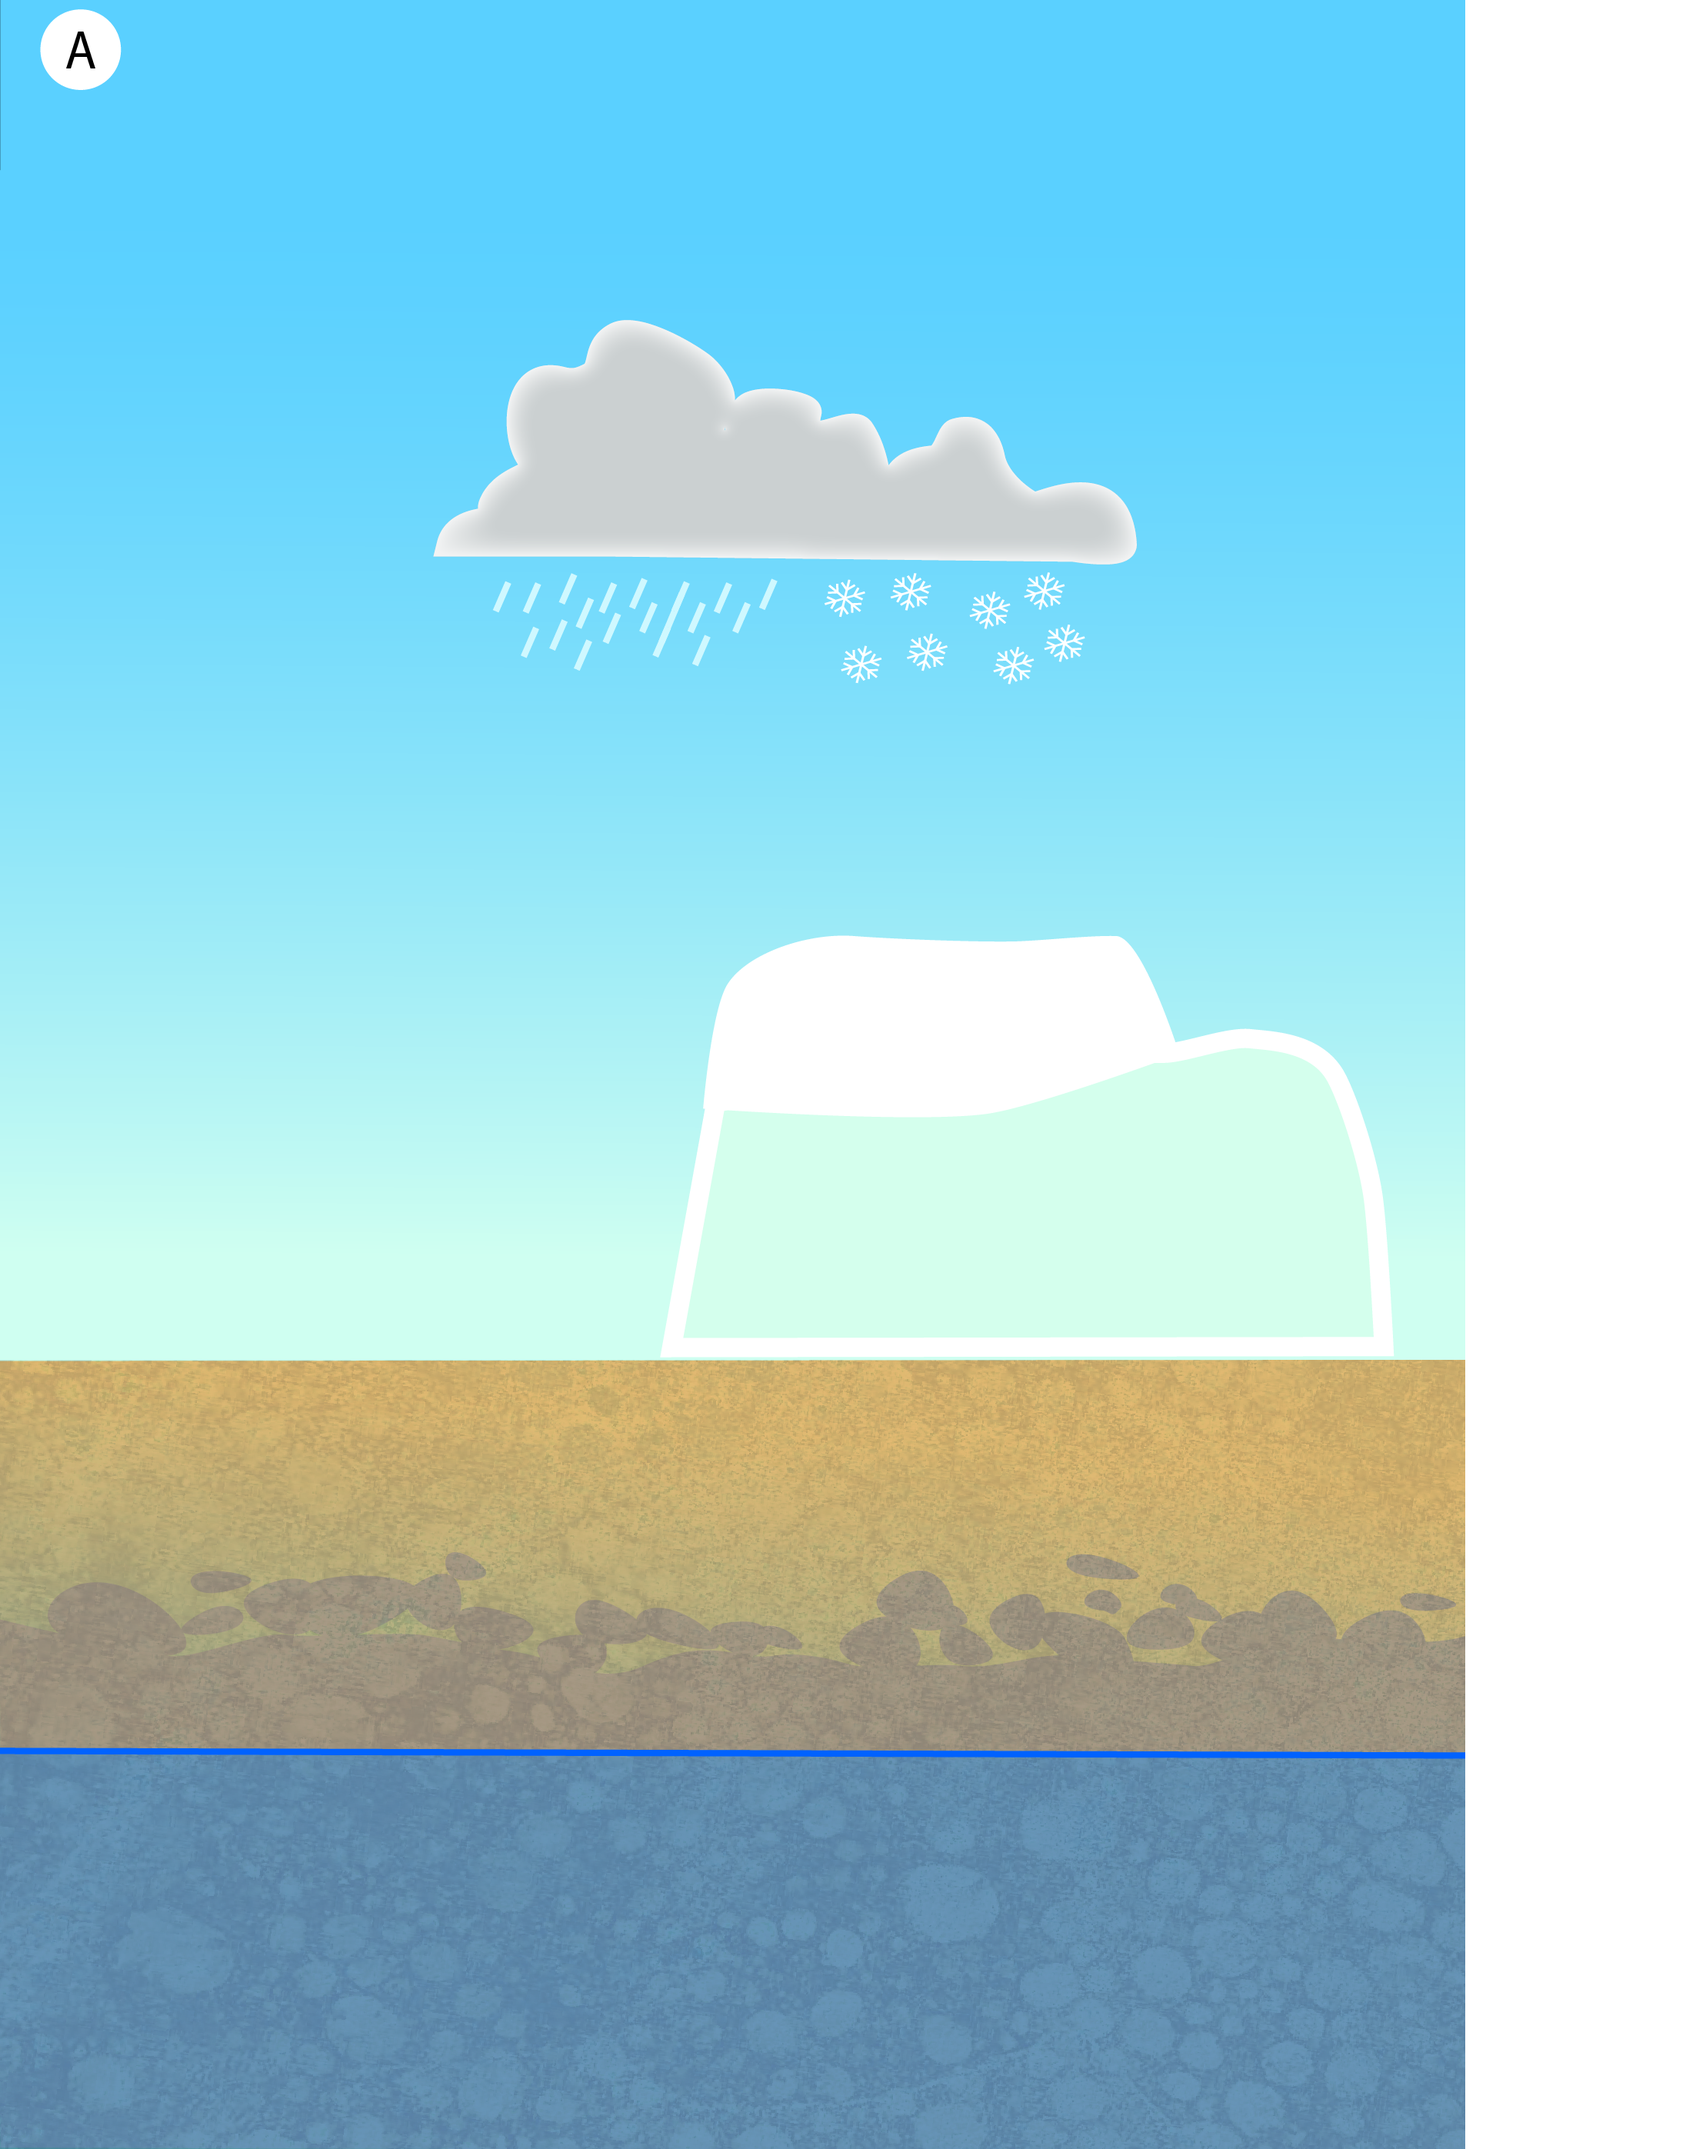
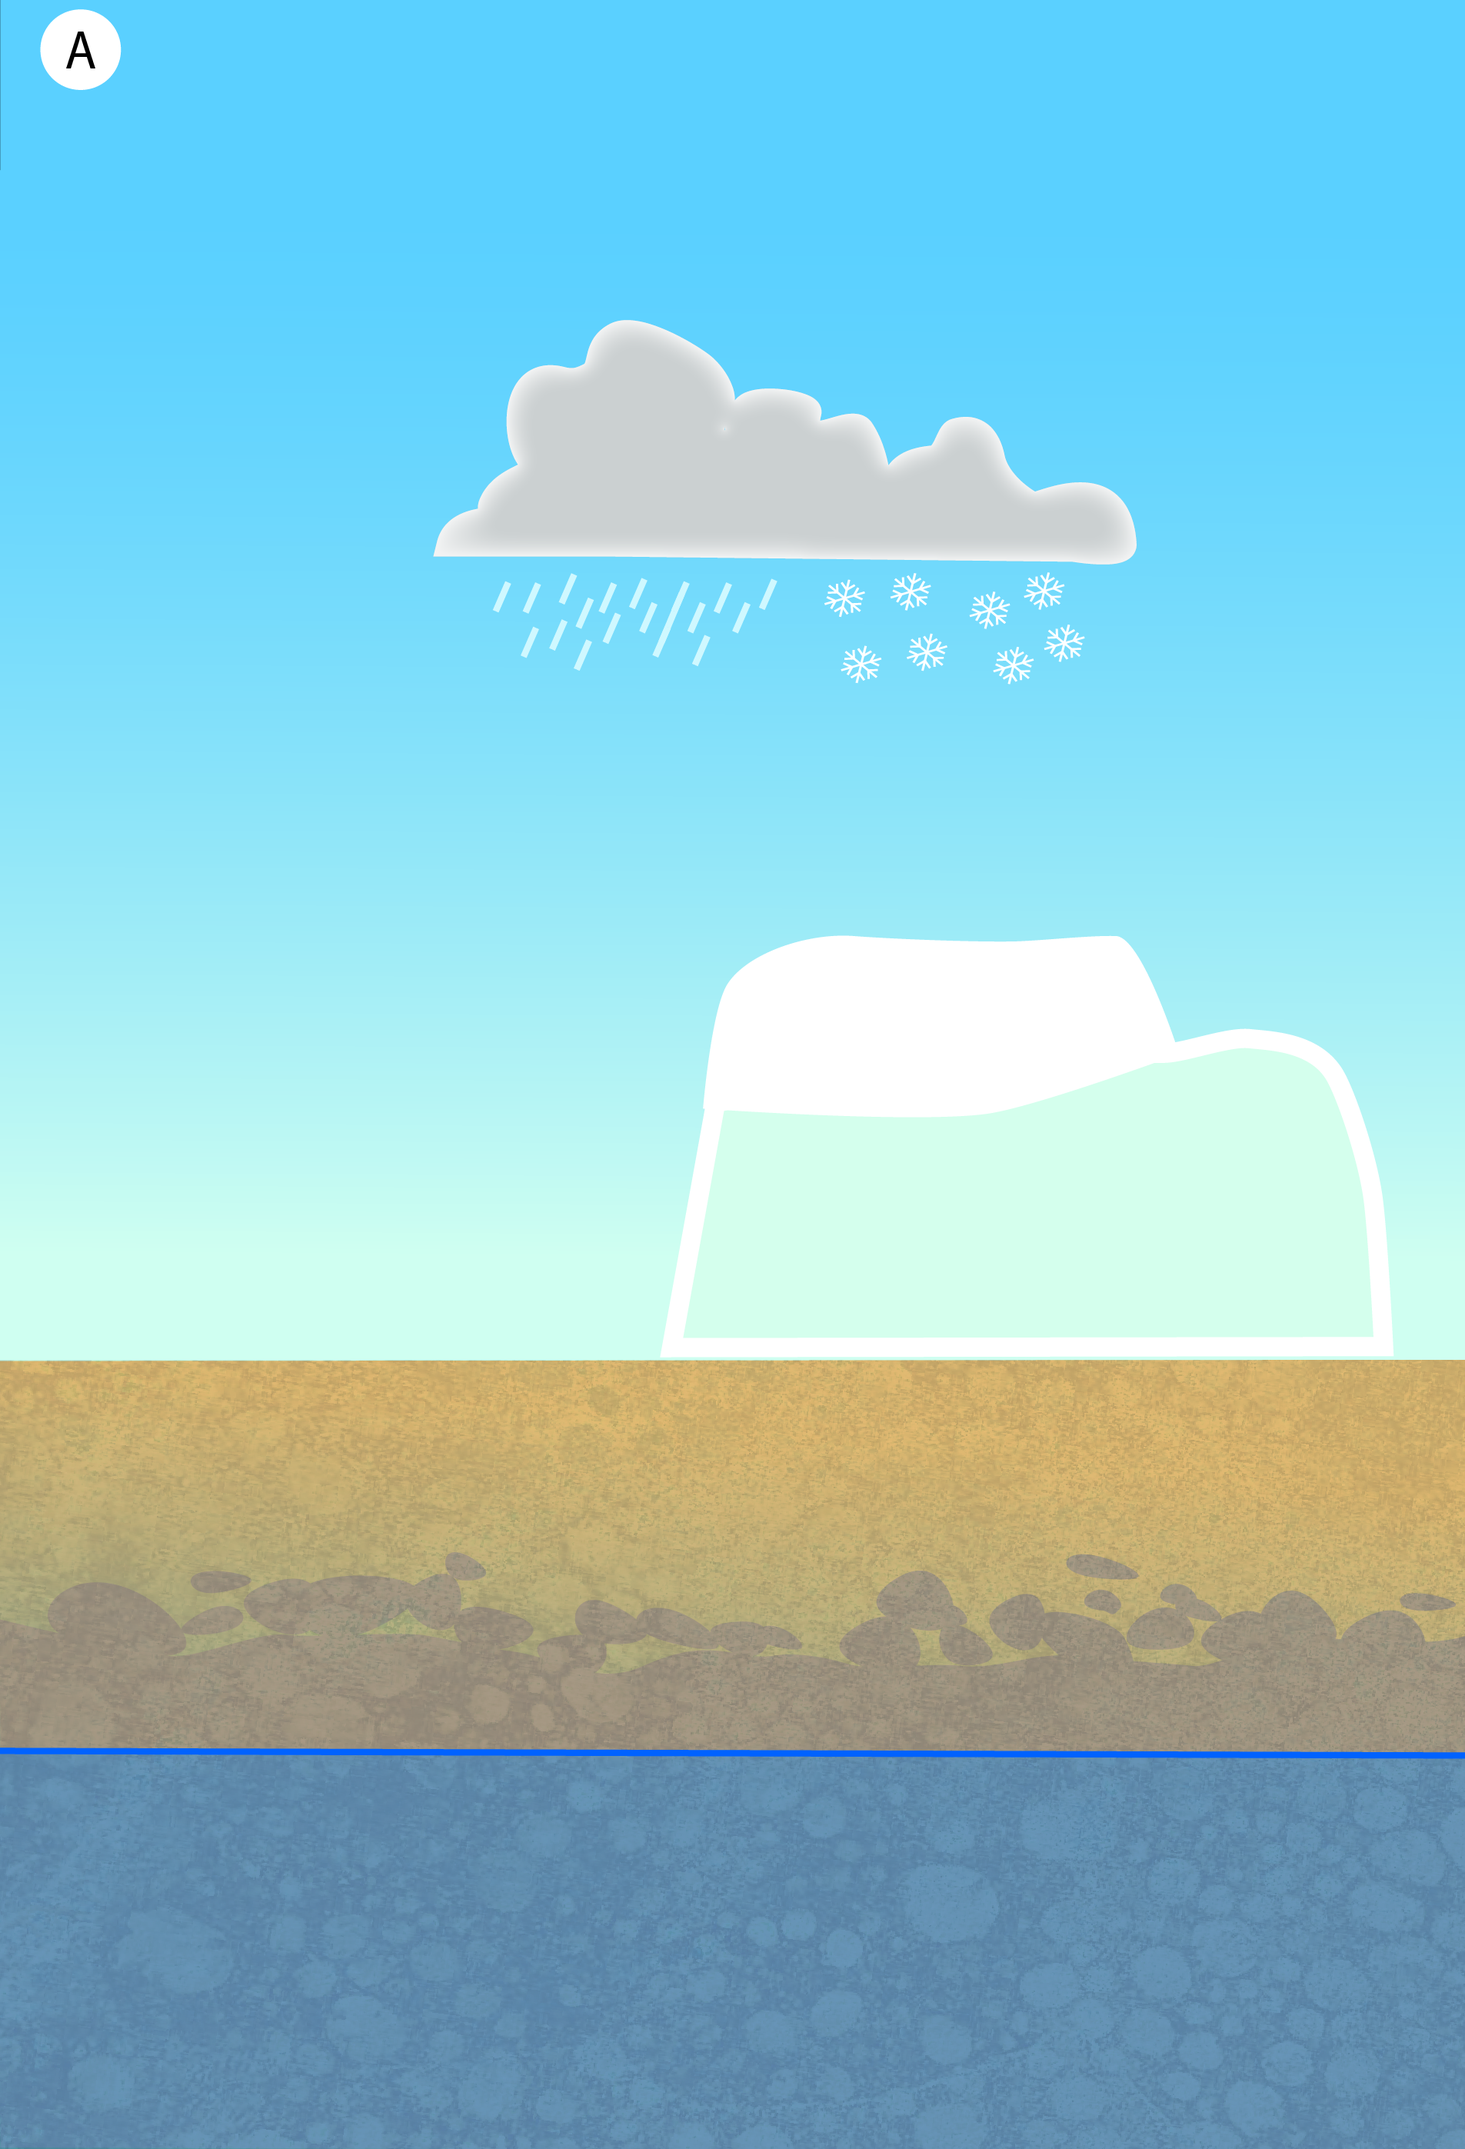
MOD: updated drawings (remove total runoff) and add more documentation

diff --git a/creatediagram.py b/creatediagram.py
@@ -1,7 +1,15 @@
+# tool to create diagrams for global water cycle based on information of the file modelsetup.json
+# on top of a background image, specific content is displayed
+# first, the positions of the items is defined. Then, and based on the information of the json file for the
+# particular model (true or false), the item from the item folder is drawn. Then, the text is displayed
+# in the corresponding font. In case a component is not represented in the model, this component is displayed
+# in grey and highlighted with an "x".
+# Author: Hannes Müller Schmied, 2024; last updated 2025-01-12
+
 import json
 from PIL import Image, ImageDraw, ImageFont
 
-# positions of the items (the drawings of the water use sectors) as pixel value in reference to the background diagram
+# positions of the items for the Main diagram as pixel value in reference to the background image
 posit = {
     "electricity": (1410, 1390),
     "manufacturing": (1730, 1350),
@@ -52,7 +60,7 @@ posit = {
     "ar_snowmelt": (600, 750)
 }
 
-# positions of the "x" (grey out for colourdisabled people) for the items as pixel value in reference to the background diagram
+# positions of the "x" (grey out for colourdisabled people) for the items of the Main diagram as pixel value in reference to the background diagram
 positx = {
     "electricity": (1490, 1480),
     "manufacturing": (1850, 1490),
@@ -99,11 +107,10 @@ positx = {
     "ar_throughfall": (330, 1280),
     "ar_infiltration": (330, 1560),
     "ar_glacierrunoff": (1190, 530),
-    "ar_runoff": (1350, 410),
     "ar_snowmelt": (700, 730)
 }
 
-# positions of the textual items for the water use sectors
+# positions of the textual items for the Main diagrams
 postxt = {
     "Electricity sector": (3150, 1290),
     "Manufacturing sector": (4000, 1330),
@@ -139,13 +146,12 @@ postxt = {
     "Throughfall": (80, 1330),
     "Infiltration": (105, 1580),
     "Glacier runoff": (1350, 600),
-    "Total runoff": (1350, 400),
     "Snow melt": (670, 690),
     "Snow storage": (1700, 560),
     "CO2 effect": (25, 1000)
 }
 
-# define if text should be wrapped or not
+# define if text display should be wrapped or not, for the Main diagram
 textwrp = {
     "Electricity sector": True,
     "Manufacturing sector": True,
@@ -180,13 +186,12 @@ textwrp = {
     "Infiltration": False,
     "Throughfall": False,
     "Glacier runoff": False,
-    "Total runoff": False,
     "Snow melt": False,
     "Snow storage": True,
     "CO2 effect": False
 }
 
-#for A diagram
+# similar information as for posit but for A diagram
 posita = {
     "shortwave": (75, 260),
     "longwave": (190, 260),
@@ -205,10 +210,9 @@ posita = {
     "A_ar_gwr": (300, 2170),
     "A_ar_caprise": (500, 2170),
     "A_ar_gw_runoff": (1500, 2450),
-    "A_ar_trunoff": (1900, 1720),
     "A_ar_surf_runoff": (1580, 1660),
-    "A_ar_glacierrunoff": (1240, 1660),
-    "A_ar_snowmelt": (900, 1660),
+    "A_ar_glacierrunoff": (1580, 1560),
+    "A_ar_snowmelt": (1580, 1460),
     "A_ar_snow_sublim": (1420, 1050),
     "A_ar_glacier_sublim": (1560, 1070),
     "A_glacier": (1020, 1475),
@@ -219,7 +223,7 @@ posita = {
     "A_soil": (700, 2090)
 }
 
-#for A diagram positions of the "x" (grey out for colourdisabled people)
+# similar information as for positx but for A diagram
 positax = {
     "shortwave": (75, 290),
     "longwave": (190, 290),
@@ -238,10 +242,9 @@ positax = {
     "A_ar_gwr": (300, 2170),
     "A_ar_caprise": (500, 2170),
     "A_ar_gw_runoff": (1500, 2380),
-    "A_ar_trunoff": (1950, 2200),
     "A_ar_surf_runoff": (1680, 1630),
-    "A_ar_glacierrunoff": (1300, 1630),
-    "A_ar_snowmelt": (1000, 1630),
+    "A_ar_glacierrunoff": (1680, 1530),
+    "A_ar_snowmelt": (1680, 1430),
     "A_ar_snow_sublim": (1420, 1050),
     "A_ar_glacier_sublim": (1560, 1070),
     "A_glacier": (1250, 1475),
@@ -251,7 +254,7 @@ positax = {
     "A_snow": (1170, 1290),
     "A_soil": (870, 2120)
 }
-# positions of the textual items for the water use sectors
+# similar information as for positxt but for A diagram
 postxta = {
     "Glacier storage": (1380, 1420),
     "Total precipitation": (770, 630),
@@ -268,11 +271,10 @@ postxta = {
     "Groundwater recharge": (320, 2160),
     "Infiltration": (70, 1900),
     "Throughfall": (200, 1410),
-    "Glacier runoff": (1230, 1710),
-    "Total runoff": (4200, 2220),
+    "Glacier runoff": (1560, 1610),
     "Groundwater runoff": (3300, 2360),
     "Interflow": (1600, 1970),
-    "Snow melt": (900, 1710),
+    "Snow melt": (1560, 1510),
     "Snow storage": (1060, 1220),
     "Surface runoff": (1560, 1710),
     "CO2 effect": (550, 880),
@@ -283,7 +285,7 @@ postxta = {
     "Snow layers:": (1060, 1320)
 }
 
-# define if text should be wrapped or not
+# similar information as for textwrp but for A diagram
 textwrpa = {
     "Glacier storage": False,
     "Total precipitation": False,
@@ -301,7 +303,6 @@ textwrpa = {
     "Infiltration": False,
     "Throughfall": False,
     "Glacier runoff": False,
-    "Total runoff": True,
     "Groundwater runoff": True,
     "Interflow": False,
     "Snow melt": False,
@@ -314,6 +315,8 @@ textwrpa = {
     "Glacier layers:": False,
     "Snow layers:": False
 }
+
+# position of the information where the number of represented layers should be displayed for A diagram
 layatxtpos = {
     "Soil layers": (1060, 2150),
     "Groundwater layers": (1060, 2630),
@@ -324,43 +327,65 @@ layatxtpos = {
 def paste_images(moddict, txtdict, modadict, positdict, postxtdict, postxtdictwrap, txtadict, layadict, layatxtpos, positadict, postxtadict, postxtadictwrap, modname):
     """
     adds the single items to the background image
-    :param moddict: model definition(s)
-    :param txtdict: corresponding texts
-    :param positdict: predefined positions of items
-    :param postxtdict: predefined positions of text
-    :param postxtdictwrap: predefined wrap allowance
-    :param modname: name of the model(s)
-    :return: a stored png of the model with modname as file name
+    :param moddict: information for Main diagram
+    :param txtdict: corresponding texts for Main diagram
+    :param modadict: information for A diagram
+    :param positdict: predefined positions of items for Main diagram
+    :param postxtdict: predefined positions of text for Main diagram
+    :param postxtdictwrap: predefined wrap allowance for Main diagram
+    :param txtadict: corresponding texts for A diagram
+    :param layadict: number of layers for A diagram
+    :param layatxtpos: predifined position of number of layers for A diagram
+    :param positadict: predefined positions of items for A diagram
+    :param postxtadict: predefined positions of text for A diagram
+    :param postxtadictwrap: predefined wrap allowance for A diagram
+    :param modname: name of the model
+
+    :return: a stored png of the model with modname as file name for the Main diagram and *_A for the A diagram
     """
+    # definition of font sizes. Please see the license for the font.
     myFont = ImageFont.truetype('Roboto-Medium.ttf', 50)
     myFonts = ImageFont.truetype('Roboto-Medium.ttf', 35)
     myFontl = ImageFont.truetype('Roboto-Medium.ttf', 80)
     myFonth = ImageFont.truetype('Roboto-Medium.ttf', 100)
+
+    # define the background and open it
     background = Image.open('fig_background/background_main.png', 'r')
     background.paste(Image.open('./fig_items/input_background.png'), (20, 20),
                      Image.open('./fig_items/input_background.png'))
+    # loop for model by model as defined in the modelsetup.json
     print(modname)
     for key in moddict:
+        # in case groundwater is represented, use certain items
         if key == "groundwater_background" and str(moddict[key]) == "True":
             background.paste(Image.open('./fig_items/all_line.png'), (970, 775), Image.open('./fig_items/all_line.png'))
             continue
         img = Image.open('./fig_items/' + key + '_' + str(moddict[key]) + '.png', 'r')
         offset = positdict[key]
         background.paste(img, offset, img)
+        # in case groundwater is not represented
         if key == "groundwater_background":
             background.paste(Image.open('./fig_items/all_line.png'), (970, 775), Image.open('./fig_items/all_line.png'))
         background.paste(Image.open('./fig_items/legend.png'),  (50, 2620), Image.open('./fig_items/legend.png'))
         imgtxt = ImageDraw.Draw(background)
-        if modname == "IDEAL":
-            imgtxt.text((2900, 220), "in the sense that a GHM represents the fluxes \nand storages that are relevant for ISIMIP, but \nnot necessarily that this is the best way how the \nwater cycle can be represented in a model", font=myFont, fill="black")
-        if modname == "MATSIRO":
+        # add specific text if model is the "standard model"
+        if modname == "ISIMIP2b-complete":
+            imgtxt.text((2700, 100), modname, font=myFonth, fill="black")
+            imgtxt.text((2700, 220), "a hypothetical global water model representing \nall of the fluxes and storages that are included \nin at least one global water model participating \nin ISIMIP phase 2b", font=myFont, fill="black")
+        # add specific text if model is MATSIRO (renamed during the whole process)
+        elif modname == "MATSIRO":
             imgtxt.text((2000, 100), "MIROC-INTEG-LAND (formerly MATSIRO)", font=myFonth, fill="black")
+        # in other cases, display the model name
         else:
             imgtxt.text((3400, 100), modname, font=myFonth, fill="black")
+        # add specific text for JULES-W1
         if modname == "JULES-W1":
             imgtxt.text((3750, 1300), "CaMa Flood", font=myFont, fill="black")
+        # in case a item is not represented in the model, add a "x"
         if str(moddict[key]) == "False":
             imgtxt.text(positx[key], "x", font=myFonth, fill="black")
+
+    # now, add the corresponding text
     for key, value in txtdict.items():
         txtpos = postxtdict[key]
         txtwrp = postxtdictwrap[key]
@@ -386,8 +411,10 @@ def paste_images(moddict, txtdict, modadict, positdict, postxtdict, postxtdictwr
                 imgtxt.text(txtpos, key, font=myFontl, fill=value)
             else:
                 imgtxt.text(txtpos, key, font=myFont, fill=value)
+    # save the image for this model
     background.save(modname + '.png')
 
+    # use a similar process as for Main diagram but for the A diagram
     background = Image.open('fig_background/background_a.png', 'r')
     background.paste(Image.open('./fig_items/input_background.png'), (20, 150),
                      Image.open('./fig_items/input_background.png'))
@@ -398,9 +425,10 @@ def paste_images(moddict, txtdict, modadict, positdict, postxtdict, postxtdictwr
         offset = positadict[key]
         background.paste(img, offset, img)
         imgtxt = ImageDraw.Draw(background)
-        if modname == "IDEAL":
-            imgtxt.text((1000, 170), "in the sense that a GHM represents the fluxes \nand storages that are relevant for ISIMIP, but \nnot necessarily that this is the best way how the \nwater cycle can be represented in a model", font=myFonts, fill="black")
-        if modname == "MATSIRO":
+        if modname == "ISIMIP2b-complete":
+            imgtxt.text((600, 50), "ISIMIP2b-complete", font=myFontl, fill="black")
+            imgtxt.text((600, 170), "a hypothetical global water model representing \nall of the fluxes and storages that are included \nin at least one global water model participating \nin ISIMIP phase 2b", font=myFonts, fill="black")
+        elif modname == "MATSIRO":
             imgtxt.text((300, 50), "MIROC-INTEG-LAND (formerly MATSIRO)", font=myFontl, fill="black")
         else:
             imgtxt.text((1200, 50), modname, font=myFonth, fill="black")
